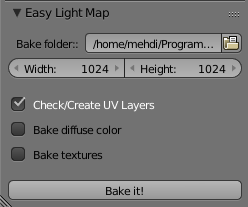
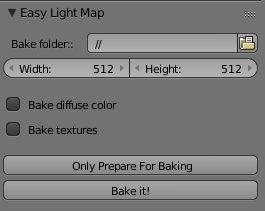
update to version 0.2

diff --git a/easy_lightmap.py b/easy_lightmap.py
@@ -2,14 +2,14 @@ import os
 import bpy
 
 from bpy.props import StringProperty, BoolProperty, IntProperty
-from subprocess import Popen, PIPE
+from bpy.app.handlers import persistent
 
 
 bl_info = {
     "name": "Easy Light Map",
     "author": "Mehdi Seifi",
-    "version": (0, 1),
-    "blender": (2, 73),
+    "version": (0, 2),
+    "blender": (2, 7),
     "location": "Render Tab > Easy Light Map",
     "description": "Bakes light map for selected object easily!",
     "warning": "",
@@ -18,54 +18,60 @@ bl_info = {
 }
 
 
-class EasyLightMapProperties(bpy.types.PropertyGroup):
+class General(object):
     
-    bake_path = StringProperty(name="Bake folder:", default="", subtype="DIR_PATH", description="Path for saving baked maps.")
+    is_baking_started = False
+    original_color = None
+    textures_use = []
+
+    def __init__(self):
+        pass
+
+
+class EasyLightMapProperties(bpy.types.PropertyGroup):
+
+    bake_path = StringProperty(
+        name="Bake folder:", default="", subtype="DIR_PATH", description="Path for saving baked maps.")
     image_w = IntProperty(name="Width", default=1024, min=1, description="Image width")
     image_h = IntProperty(name="Height", default=1024, min=1, description="Image height")
-    check_uv = BoolProperty(name="Check/Create UV Layers", default=True, description="Create two uv layers if there is not any.")
     bake_diffuse = BoolProperty(name="Bake diffuse color", default=False, description="Bake material diffuse color into map.")
     bake_textures = BoolProperty(name="Bake textures", default=False, description="Bake material textures into map.")
 
 
-class EasyLightMap(bpy.types.Operator):
+class EasyLightMapPrepare(bpy.types.Operator):
 
-    """ Main operation happens here. """
-    bl_idname = "object.easy_light_map"
-    bl_label = "Bake It!"
-    bl_description = "Bake light map into new texture and add it into object material."
+    bl_idname = "object.easy_light_map_prepare"
+    bl_label = "Only Prepare For Baking"
+    bl_description = "Create two uv layers if there is not any then add an empty texture slot for baking."
 
     settings = None
     selected_object = None
     material = None
-    textures_use = []
 
     @classmethod
     def poll(cls, context):
-        if context.scene.render.engine == "BLENDER_RENDER":
-            return True
+        return True
 
     def execute(self, context):
-        print("\ncontext.object:", context.object)
         self.selected_object = context.active_object
         if self.selected_object is None or self.selected_object.type != "MESH":
             self.report({"WARNING"}, "No mesh object was selected.")
-        
+
         self.material = self.selected_object.active_material
 
         self.settings = context.scene.easyLightMap
 
-        self.get_used_textures()
-        self.check_uv_layers()
+        # Check/Add UVs.
+        check_uv_layers(self.selected_object)
 
         # Add new texture slot and new image for baking.
         name = "Baked_" + self.material.name
-        
+
         img_path = bpy.path.abspath(self.settings.bake_path)
         if not img_path:
             img_path = bpy.path.abspath("//")
         img_path = os.path.join(img_path, name + ".png")
-        
+
         img = bpy.data.images.get(name)
         if img is None:
             img = bpy.data.images.new(name, width=self.settings.image_w, height=self.settings.image_h, alpha=True)
@@ -79,7 +85,7 @@ class EasyLightMap(bpy.types.Operator):
             baked_tex = bpy.data.textures.new(name, type="IMAGE")
         baked_tex.image = img
         baked_tex.use_alpha = True
-        
+
         baked_slot = self.material.texture_slots.get(name)
         if baked_slot is None:
             baked_slot = self.material.texture_slots.add()
@@ -87,76 +93,110 @@ class EasyLightMap(bpy.types.Operator):
         baked_slot.texture = baked_tex
         baked_slot.texture_coords = "UV"
         baked_slot.uv_layer = self.selected_object.data.uv_textures.active.name
+        baked_slot.blend_type = "MULTIPLY"
 
-        # Bake It
+        # Apply image to active UV layer.
         uv_layer = self.selected_object.data.uv_textures.active
         for uv in uv_layer.data:
             uv.image = baked_tex.image
 
-        bpy.ops.object.bake_image()
-        img.save()
+        # Done!
+        return {"FINISHED"}
 
-        # Removing diffuse color
-        if not self.settings.bake_diffuse:
-            self.remove_diffuse_color(img_path)
 
-        # Revert back texture_slots.use check boxes.
-        for index in range(len(self.textures_use)):
-            if self.material.texture_slots[index] is not None:
-                self.material.texture_slots[index].use = self.textures_use.pop(0)
+class EasyLightMapBake(bpy.types.Operator):
 
-        # Use new baked texture
-        img.reload()
-        baked_slot.use = True
+    bl_idname = "object.easy_light_map_bake"
+    bl_label = "Bake It!"
+    bl_description = "Bake light map into new texture and add it into object material."
+
+    settings = None
+    selected_object = None
+    material = None
+    #original_color = None
+    #textures_use = []
+
+    @classmethod
+    def poll(cls, context):
+        return True
+
+    # def invoke(self, context, event):
+    #     return self.execute(context)
+
+    def execute(self, context):
+        self.selected_object = context.active_object
+        if self.selected_object is None or self.selected_object.type != "MESH":
+            self.report({"WARNING"}, "No mesh object was selected.")
+
+        self.settings = context.scene.easyLightMap
+        self.material = self.selected_object.active_material
+
+        # Check UV layers.
+        check_uv_layers(self.selected_object)
+
+        # Add a new texture slot and a new image for baking.
+        name = "Baked_" + self.material.name
+
+        img_path = bpy.path.abspath(self.settings.bake_path)
+        if not img_path:
+            img_path = bpy.path.abspath("//")
+        img_path = os.path.join(img_path, name + ".png")
+
+        img = bpy.data.images.get(name)
+        if img is None:
+            img = bpy.data.images.new(name, width=self.settings.image_w, height=self.settings.image_h, alpha=True)
+            img.file_format = "PNG"
+            img.filepath = img_path
+        elif img.size != [self.settings.image_w, self.settings.image_h]:
+            img.scale(self.settings.image_w, self.settings.image_h)
+
+        baked_tex = bpy.data.textures.get(name)
+        if baked_tex is None:
+            baked_tex = bpy.data.textures.new(name, type="IMAGE")
+        baked_tex.image = img
+        baked_tex.use_alpha = True
+
+        baked_slot = self.material.texture_slots.get(name)
+        if baked_slot is None:
+            baked_slot = self.material.texture_slots.add()
+        baked_slot.use = False
+        baked_slot.texture = baked_tex
+        baked_slot.texture_coords = "UV"
+        baked_slot.uv_layer = self.selected_object.data.uv_textures.active.name
         baked_slot.blend_type = "MULTIPLY"
+
+        # Set UV layer image.
+        uv_layer = self.selected_object.data.uv_textures.active
+        for uv in uv_layer.data:
+            uv.image = baked_tex.image
+
+        if not self.settings.bake_diffuse:
+            # Save diffuse color
+            General.original_color = self.material.diffuse_color.copy()
+            # Change it to pure white.
+            self.material.diffuse_color = [1.0, 1.0, 1.0]
+
+        # Check which texture to use.
+        General.textures_use = self.get_used_textures()
+
+        # Bake it.
+        bpy.app.handlers.scene_update_post.append(scene_update)
+        bpy.ops.object.bake_image("INVOKE_DEFAULT")
+        General.is_baking_started = True
 
         # Done!
         return {"FINISHED"}
 
     def get_used_textures(self):
         """ UnCheck textures if bake_textures is false. """
+        result = []
         for slot in self.material.texture_slots:
             if slot is not None and slot.use:
-                self.textures_use.append(slot.use)
+                result.append(slot.use)
                 if not self.settings.bake_textures:
                     slot.use = False
 
-    def check_uv_layers(self):
-        """ Object must have two uv sets. """
-        if len(self.selected_object.data.uv_textures) == 0:
-            self.add_uv_map("Diffuse")
-            self.add_uv_map("LightMap")
-        elif len(self.selected_object.data.uv_textures) == 1:
-            self.add_uv_map("LightMap")
-
-    def add_uv_map(self, name):
-        """ Add new UV Map to object and unwrap it. """
-        uv = self.selected_object.data.uv_textures.new(name)
-        uv.active = True
-        bpy.ops.object.mode_set(mode="EDIT")
-        bpy.ops.mesh.select_all(action="SELECT")
-        bpy.ops.uv.smart_project(island_margin=0.05)
-        # Have to pass object, because context.object is None in render panel.
-        # (in unwrap function is_editmode = (context.object.mode == 'EDIT') will need it.)
-        #bpy.ops.uv.lightmap_pack({
-        #                          "object": self.selected_object,
-        #                          "PREF_CONTEXT": "ALL_OBJECTS",
-        #                          "PREF_PACK_IN_ONE": True,
-        #                          "PREF_IMG_PX_SIZE": self.settings.image_w
-        #                         })
-        bpy.ops.object.mode_set(mode="OBJECT")
-        uv.active = True
-
-        return uv
-
-    def remove_diffuse_color(self, file):
-        """ Remove diffuse color by ImageMagick. """
-        params = [
-            "mogrify", "-normalize", "-grayscale", "Rec709Luma",
-            "-type", "TrueColorMatte", "-define", "png:color-type=6", file
-        ]
-        process = Popen(params, stdin=PIPE, stdout=PIPE)
-        out, err = process.communicate()
+        return result
 
 
 class EasyLightMapPanel(bpy.types.Panel):
@@ -169,8 +209,8 @@ class EasyLightMapPanel(bpy.types.Panel):
 
     @classmethod
     def poll(cls, context):
-        if context.scene.render.engine == "BLENDER_RENDER":
-            return True
+        # if context.scene.render.engine == "BLENDER_RENDER":
+        return True
 
     def draw(self, context):
         layout = self.layout
@@ -182,13 +222,64 @@ class EasyLightMapPanel(bpy.types.Panel):
         row.prop(props, "image_h")
         layout.separator()
         row = layout.row(True)
-        row.prop(props, "check_uv")
-        row = layout.row(True)
         row.prop(props, "bake_diffuse")
         row = layout.row(True)
         row.prop(props, "bake_textures")
         layout.separator()
-        layout.operator(EasyLightMap.bl_idname, text="Bake it!")
+        layout.operator(EasyLightMapPrepare.bl_idname, text="Only Prepare For Baking")
+        layout.operator(EasyLightMapBake.bl_idname, text="Bake it!")
+
+
+
+def check_uv_layers(selected_object):
+    """ Object must have two uv sets. """
+    if len(selected_object.data.uv_textures) == 0:
+        add_uv_map("Diffuse", selected_object)
+        add_uv_map("LightMap", selected_object)
+    elif len(selected_object.data.uv_textures) == 1:
+        add_uv_map("LightMap", selected_object)
+
+
+def add_uv_map(name, selected_object):
+    """ Add new UV Map to object and unwrap it. """
+    uv = selected_object.data.uv_textures.new(name)
+    uv.active = True
+    bpy.ops.object.mode_set(mode="EDIT")
+    bpy.ops.mesh.select_all(action="SELECT")
+    bpy.ops.uv.smart_project(island_margin=0.05)
+    # Have to pass object, because context.object is None in render panel.
+    # (in unwrap function is_editmode = (context.object.mode == 'EDIT') will need it.)
+    # bpy.ops.uv.lightmap_pack({
+    #                          "object": selected_object,
+    #                          "PREF_CONTEXT": "ALL_OBJECTS",
+    #                          "PREF_PACK_IN_ONE": True,
+    #                          "PREF_IMG_PX_SIZE": settings.image_w
+    #                         })
+    bpy.ops.object.mode_set(mode="OBJECT")
+    uv.active = True
+
+    return uv
+
+
+@persistent
+def scene_update(context):
+    # Just when baking started texture.is_updated is true, after that it'll becomes false.
+    if bpy.context.active_object:
+        material = bpy.context.active_object.active_material
+        name = "Baked_" + material.name
+
+        if General.is_baking_started and not bpy.data.textures[name].is_updated:
+            # Baking is finished, so revert back the material color and texture slots use check boxes.
+            if General.original_color is not None:
+                material.diffuse_color = General.original_color
+
+            for index in range(len(General.textures_use)):
+                if material.texture_slots[index] is not None:
+                    material.texture_slots[index].use = General.textures_use.pop(0)
+
+            # Remove handler
+            bpy.app.handlers.scene_update_post.remove(scene_update)
+
 
 
 def register():
@@ -201,5 +292,5 @@ def unregister():
     bpy.utils.unregister_module(__name__)
 
 
-if __name__ == '__main__':
+if __name__ == "__main__":
     register()

diff --git a/README.md b/README.md
@@ -1,14 +1,19 @@
 Easy Light Map
 ==============
 
-#### An addon for blender 2.73 to bake light map easily! ####
+#### An addon for blender 2.7 to bake light map easily! ####
 ![panel](https://github.com/mese79/easy_lightmap/raw/master/shot1.png)
 
-For baking your object light map to use in another engine like [three.js](http://threejs.org), first you have to add two uv layers and unwrap them. Then you must decide that do you want to bake diffuse color or object texture. if no then you have to un-check texture box and reset diffuse color into simple white color... . After baking was done you may want to revert your object material back to before baking state.
+For baking your object light map to use in another engine like [three.js](http://threejs.org), first you have to add two uv layers and unwrap them. Then you must decide that do you want to bake diffuse color or object texture. if no then you have to un-check texture box and reset diffuse color into pure white color... . After baking was done you may want to revert your object material back to before baking state.
 
-Well with this addon you can do all these steps just by one click!
+Well with this addon you can do all these steps just by one click!  
+  
 
+###### Changes in v0.2 ######
+- There is no need to Imagemagick anymore.
+- Bake process doesn't lock up UI and you can see baking progress.  
+  
 
-###### Requirement: ######
-I'm using ImageMagick *mogrify* command to remove diffuse color from baked image.
- 
+###### Note: ######
+Since i couldn't find any way to get when baking process has been finished normally and when it has been cancelled by user, you have to save the baked image manually.
+
